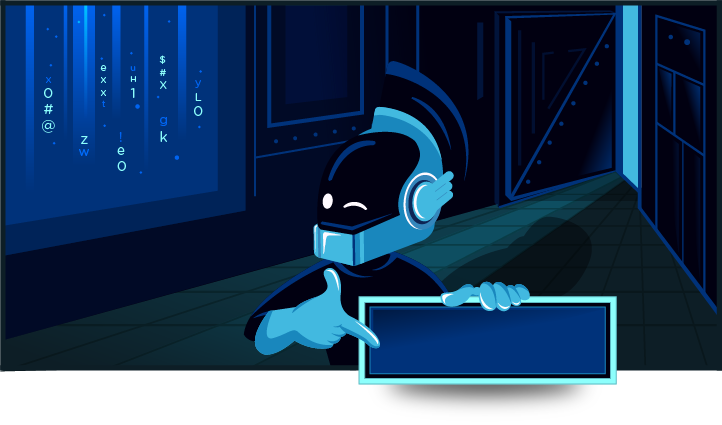
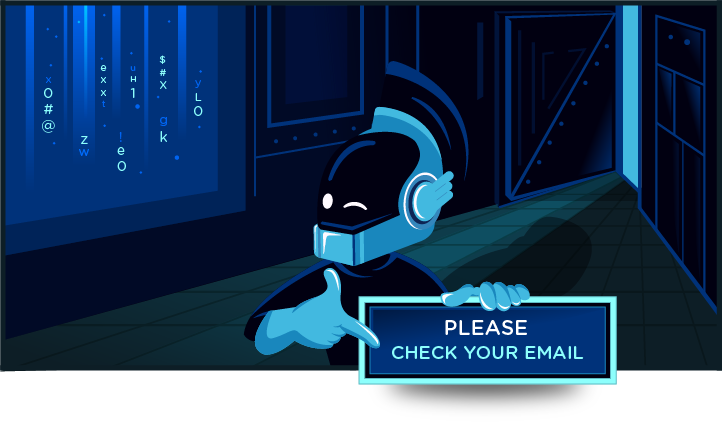
Update landing pages
* social media links
 * remove privacy policy
 * update thank you page image
 * GA -> piwik

Changed region(s): [[0.5485, 0.7341, 0.8227, 0.8565]]

diff --git a/cypherpunk-com/landing/landing-confirmation.html b/cypherpunk-com/landing/landing-confirmation.html
@@ -70,23 +70,27 @@
       <div class="share">
         <div class="left">
           <div class="first pad-right">
-            <div class="facebook">
-              <div class="logo">
-                <img src="/assets/landing/facebook.png" alt="Facebook">
-              </div>
+            <a href="https://www.facebook.com/cypherpunkvpn/" target="_blank">
+              <div class="facebook">
+                <div class="logo">
+                  <img src="/assets/landing/facebook.png" alt="Facebook">
+                </div>
 
-              <div class="text">Share</div>
-            </div>
+                <div class="text">Share</div>
+              </div>
+            </a>
           </div>
 
           <div class="second pad-left">
-            <div class="twitter">
-              <div class="logo">
-                <img src="/assets/landing/twitter.png" alt="Twitter">
-              </div>
+            <a href="https://twitter.com/cypherpunkvpn" target="_blank">
+              <div class="twitter">
+                <div class="logo">
+                  <img src="/assets/landing/twitter.png" alt="Twitter">
+                </div>
 
-              <div class="text">Share</div>
-            </div>
+                <div class="text">Share</div>
+              </div>
+            </a>
           </div>
         </div>
 
@@ -102,22 +106,22 @@
     </section>
   </div>
 
-  <div class="footer">
-    <a href="/privacy-policy">Privacy Policy</a>
-  </div>
-
   <!-- page script -->
 
-  <!-- begin GA -->
-  <script type="text/javascript" async>
-    (function(i,s,o,g,r,a,m){i['GoogleAnalyticsObject']=r;i[r]=i[r]||function(){
-    (i[r].q=i[r].q||[]).push(arguments)},i[r].l=1*new Date();a=s.createElement(o),
-    m=s.getElementsByTagName(o)[0];a.async=1;a.src=g;m.parentNode.insertBefore(a,m)
-    })(window,document,'script','https://www.google-analytics.com/analytics.js','ga');
-
-    ga('create', 'UA-80859092-1', 'auto');
-    ga('send', 'pageview');
+  <!-- Piwik -->
+  <script type="text/javascript">
+    var _paq = _paq || [];
+    /* tracker methods like "setCustomDimension" should be called before "trackPageView" */
+    _paq.push(['trackPageView']);
+    _paq.push(['enableLinkTracking']);
+    (function() {
+      var u="//piwik.cypherpunk.com/";
+      _paq.push(['setTrackerUrl', u+'cypherpunk.php']);
+      _paq.push(['setSiteId', '1']);
+      var d=document, g=d.createElement('script'), s=d.getElementsByTagName('script')[0];
+      g.type='text/javascript'; g.async=true; g.defer=true; g.src='/p.js'; s.parentNode.insertBefore(g,s);
+    })();
   </script>
-  <!-- end GA -->
+  <!-- End Piwik Code -->
 </body>
 </html>

diff --git a/cypherpunk-com/landing/landing-thanks.html b/cypherpunk-com/landing/landing-thanks.html
@@ -43,22 +43,23 @@
     </div>
   </div>
 
-  <div class="footer">
-    <a href="/privacy-policy">Privacy Policy</a>
-  </div>
 
   <!-- page script -->
 
-  <!-- begin GA -->
-  <script type="text/javascript" async>
-    (function(i,s,o,g,r,a,m){i['GoogleAnalyticsObject']=r;i[r]=i[r]||function(){
-    (i[r].q=i[r].q||[]).push(arguments)},i[r].l=1*new Date();a=s.createElement(o),
-    m=s.getElementsByTagName(o)[0];a.async=1;a.src=g;m.parentNode.insertBefore(a,m)
-    })(window,document,'script','https://www.google-analytics.com/analytics.js','ga');
-
-    ga('create', 'UA-80859092-1', 'auto');
-    ga('send', 'pageview');
+  <!-- Piwik -->
+  <script type="text/javascript">
+    var _paq = _paq || [];
+    /* tracker methods like "setCustomDimension" should be called before "trackPageView" */
+    _paq.push(['trackPageView']);
+    _paq.push(['enableLinkTracking']);
+    (function() {
+      var u="//piwik.cypherpunk.com/";
+      _paq.push(['setTrackerUrl', u+'cypherpunk.php']);
+      _paq.push(['setSiteId', '1']);
+      var d=document, g=d.createElement('script'), s=d.getElementsByTagName('script')[0];
+      g.type='text/javascript'; g.async=true; g.defer=true; g.src='/p.js'; s.parentNode.insertBefore(g,s);
+    })();
   </script>
-  <!-- end GA -->
+  <!-- End Piwik Code -->
 </body>
 </html>

diff --git a/cypherpunk-com/landing/landing.scss b/cypherpunk-com/landing/landing.scss
@@ -126,23 +126,6 @@ html, body {
   }
 }
 
-.social {
-  text-align: center;
-  font-weight: bold;
-  padding: 0 20px;
-  .proof { font-size: 18px; color: #7ffffb; }
-  .outlet {
-    display: inline-block;
-    margin: 10px 15px 10px;
-    &:last-child { margin-right: 0; }
-    .fa { font-size: 45px; line-height: 1.23; }
-    .fa-facebook-official { color: #3b5998; }
-    .fa-twitter { color: #4ba4eb; }
-    .fa-envelope { color: #fff; }
-    .fa-google-plus-official { color: #ff0002; }
-  }
-}
-
 /** Confirmation Page **/
 
 .confirmation-header {
@@ -220,6 +203,8 @@ html, body {
     max-width: 700px;
     overflow: auto;
     padding: 10px 0 60px;
+
+    a { text-decoration: none; color: #fff; }
 
     .left { width: 50%; float: left; }
     .right { width: 50%; float: right; padding-left: 10px; }

diff --git a/cypherpunk-com/landing/landing.html b/cypherpunk-com/landing/landing.html
@@ -75,10 +75,6 @@
     </div>
   </div>
 
-  <div class="footer">
-    <a href="/privacy-policy">Privacy Policy</a>
-  </div>
-
   <!-- page script -->
   <script src="/landing.js"></script>
 
